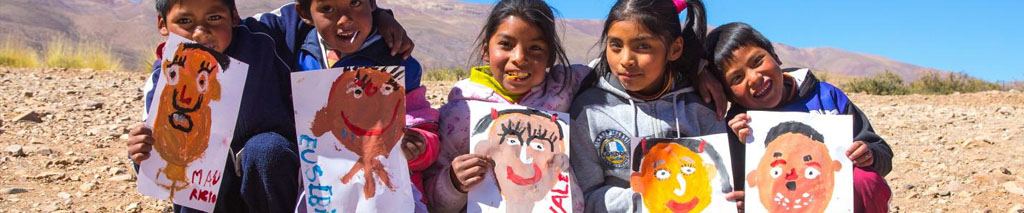
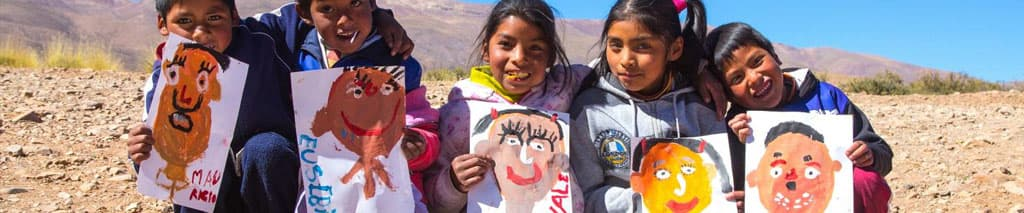
[FIX] - Fixes varios - OT102 (#72)
* refactor styles

* fix register alert and refactor sidebar links

* fix edit user form.

* optimization of images for banners

diff --git a/src/pages/Testimonials.js b/src/pages/Testimonials.js
@@ -47,29 +47,37 @@ export default function ListTestimonials() {
     loadData()
   }, [])
 
-  if (loading) {
-    return <Flex wrap="wrap" justifyContent="center" alignItems="center"><Spinner /></Flex>
-  }
-
   return (
     <>
       <Alert {...alertProps} />
-      <Banner img="/images/banner-top4.jpg" display={{ base: 'none', md: 'flex' }} />
+      <Banner
+        img="/images/banner-top4.jpg"
+        display={{ base: 'none', md: 'flex' }}
+      />
       <PageHeader title="TESTIMONIOS" display={{ base: 'none', md: 'flex' }} />
-      <Container maxW="container.lg" mt="5">
-        <Box p={0}>
-          <SimpleGrid
-            columns={{ base: 1, xl: 2 }}
-            spacing="20"
-            mt={16}
-            mx="auto"
-            alignItems="flex-start"
-          >
-            { !allTestimonials ? <Spinner /> : allTestimonials.map((testimonial) =>
-              <TestimonialCard {...testimonial} key={testimonial.id} />).reverse()}
-          </SimpleGrid>
-        </Box>
-      </Container>
+      {loading ? (
+        <Flex wrap="wrap" justifyContent="center" alignItems="center">
+          <Spinner />
+        </Flex>
+      ) : (
+        <Container maxW="container.lg" mt="5">
+          <Box p={0}>
+            <SimpleGrid
+              columns={{ base: 1, xl: 2 }}
+              spacing="20"
+              mt={16}
+              mx="auto"
+              alignItems="flex-start"
+            >
+              {allTestimonials
+                .map((testimonial) => (
+                  <TestimonialCard {...testimonial} key={testimonial.id} />
+                ))
+                .reverse()}
+            </SimpleGrid>
+          </Box>
+        </Container>
+      )}
     </>
-  );
+  )
 }

diff --git a/src/components/forms/EditUserForm.js b/src/components/forms/EditUserForm.js
@@ -18,8 +18,11 @@ import { getUserData } from '../../services/authService'
 import { getUserById, getAllRoles, updateuser } from '../../services/usersService'
 import { EditUserSchema } from './ValidationSchemas'
 import imgUploadService from '../../services/imgUploadService'
+import useUser from '../../hooks/useUser'
 
 const EditUserForm = () => {
+  const { userData: editor } = useUser()
+  const navigate = useNavigate()
   const { id } = useParams()
   const [user, setUser] = useState({})
   const [roles, setRoles] = useState([])
@@ -30,9 +33,8 @@ const EditUserForm = () => {
     icon: '',
     onConfirm: () => {},
   })
-  const navigate = useNavigate()
   const initialValues = {
-    userId: id === 'me' ? user.userId : user.id,
+    userId: !id ? user.userId : user.id,
     firstName: user.firstName,
     lastName: user.lastName,
     email: user.email,
@@ -40,10 +42,10 @@ const EditUserForm = () => {
     role: user.role,
     roleId: user.roleId,
   }
-  const updateId = id === 'me' ? user.userId : user.id
+  const updateId = !id ? user.userId : user.id
 
   const loadData = async () => {
-    if (id === 'me') {
+    if (!id) {
       try {
         const loadedData = await getUserData()
         setUser({
@@ -199,7 +201,7 @@ const EditUserForm = () => {
                       </FormControl>
                     </Box>
                     )}
-                    {id !== 'me' && (
+                    {id !== 'me' && editor.userRole === 'Admin' && (
                     <Box>
                       <FormControl id="roleId">
                         <FormLabel>Modificar rol</FormLabel>

diff --git a/src/pages/News.js b/src/pages/News.js
@@ -47,24 +47,33 @@ export default function ListNews() {
     loadData()
   }, [])
 
-  if (loading) {
-    return <Flex wrap="wrap" justifyContent="center" alignItems="center"><Spinner /></Flex>
-  }
-
   return (
     <>
       <Alert {...alertProps} />
-      <Banner img="/images/banner-top2.jpg" display={{ base: 'none', md: 'flex' }} />
+      <Banner
+        img="/images/banner-top2.jpg"
+        display={{ base: 'none', md: 'flex' }}
+      />
       <PageHeader title="NOVEDADES" display={{ base: 'none', md: 'flex' }} />
-      <Container maxW="container.lg" mt="5">
-        <Box p={0}>
-          <SimpleGrid columns={{ base: 1, md: 4 }} spacing={6} alignItems="flex-start">
-
-            { !allNews ? <Spinner /> : allNews.map((news) =>
-              <NewsHomeCard {...news} key={news.id} />).reverse()}
-          </SimpleGrid>
-        </Box>
-      </Container>
+      {loading ? (
+        <Flex wrap="wrap" justifyContent="center" alignItems="center">
+          <Spinner />
+        </Flex>
+      ) : (
+        <Container maxW="container.lg" mt="5">
+          <Box p={0}>
+            <SimpleGrid
+              columns={{ base: 1, md: 4 }}
+              spacing={6}
+              alignItems="flex-start"
+            >
+              {allNews
+                .map((news) => <NewsHomeCard {...news} key={news.id} />)
+                .reverse()}
+            </SimpleGrid>
+          </Box>
+        </Container>
+      )}
     </>
-  );
+  )
 }

diff --git a/src/components/dashboard/Sidebar.js b/src/components/dashboard/Sidebar.js
@@ -31,7 +31,6 @@ const LINKS_ITEMS = [
   { name: 'Novedades', href: 'news', icon: FiRss },
   { name: 'Usuarios', href: 'users', icon: FiUsers },
   { name: 'Testimonios', href: 'testimonials', icon: FiMessageSquare },
-  { name: 'HomePage', href: '/', icon: FiHome },
 ]
 
 export default function Sidebar({ onClose, ...rest }) {
@@ -50,7 +49,7 @@ export default function Sidebar({ onClose, ...rest }) {
       {...rest}
     >
       <Flex h="20" alignItems="center" mx="8" justifyContent="space-between">
-        <Link to="/backoffice">
+        <Link to="/">
           <Image
             h="45px"
             src="../../images/logo-somos-mas.png"
@@ -63,7 +62,7 @@ export default function Sidebar({ onClose, ...rest }) {
         <Box pt={4}>
           <NavItem
             icon={FiUser}
-            href="users/me"
+            href="me"
             onClick={onClose}
           >
             Editar perfil
@@ -79,6 +78,13 @@ export default function Sidebar({ onClose, ...rest }) {
               {link.name}
             </NavItem>
           ))}
+          <NavItem
+            icon={FiHome}
+            href="/"
+            onClick={onClose}
+          >
+            HomePage
+          </NavItem>
         </Box>
       )}
     </Box>

diff --git a/src/pages/auth/Register.js b/src/pages/auth/Register.js
@@ -73,6 +73,7 @@ const Register = () => {
     newUser(values)
       .then(() => {
         setSubmitting(false)
+        AlertFunction({ title: 'Bienvenido' })
         navigate('/', { replace: true })
       })
       .catch((error) => {
@@ -80,7 +81,6 @@ const Register = () => {
           title: 'Error de registro',
           message: extractErrorMsg(error),
           icon: 'error',
-          onConfirm: () => AlertFunction({ title: 'Bienvenido' }),
         })
       })
   }

diff --git a/src/pages/backoffice/activities/ListActivities.js b/src/pages/backoffice/activities/ListActivities.js
@@ -116,6 +116,7 @@ const ListActivities = () => {
           Actividades
           <Tooltip hasArrow label="Agregar Actividad">
             <Button
+              m={4}
               onClick={() => navigate('new')}
               bg="#33d9b2"
               size="sm"

diff --git a/src/pages/backoffice/news/ListNews.js b/src/pages/backoffice/news/ListNews.js
@@ -107,6 +107,7 @@ const ListNews = () => {
           Novedades
           <Tooltip hasArrow label="Agregar Novedad">
             <Button
+              m={4}
               onClick={() => navigate('new')}
               bg="#33d9b2"
               size="sm"
